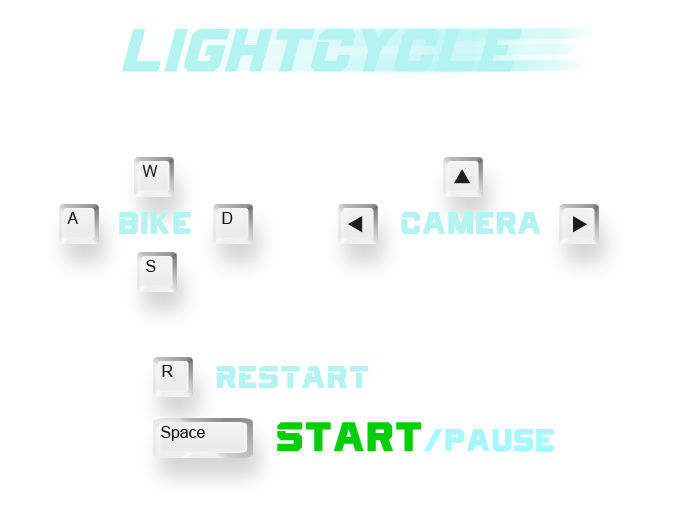
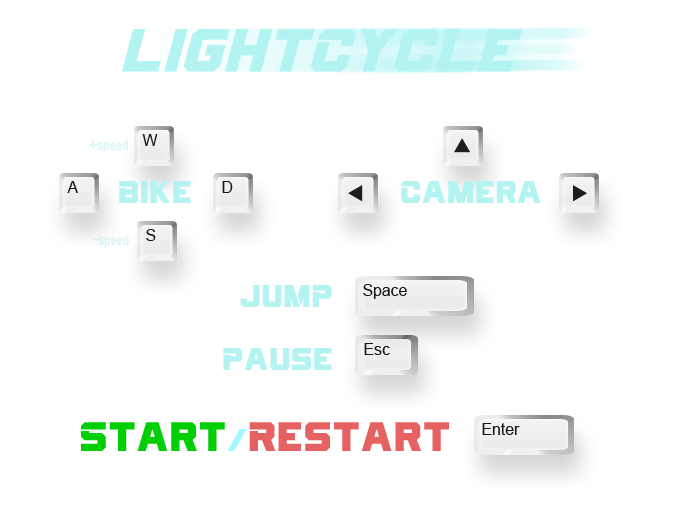
Readjust controls for jump
Enter is now the universal button for start/restart. Space is dedicated
to jumping, and esc for pausing. The starting instructions are modified
to reflect this.

diff --git a/lightcycle.js b/lightcycle.js
@@ -55,8 +55,8 @@ window.onload = function init() {
     gl.blendFunc(gl.SRC_ALPHA, gl.ONE_MINUS_SRC_ALPHA);
 
     // Start game
-    restart();
     initializeBgm();
+    controller.restart();
     requestAnimFrame(render);
 }
 
@@ -65,7 +65,6 @@ function initializeBgm() {
     if (!bgm.error) {
         bgm.volume = 0.1;
         bgm.loop = true;
-        bgm.play();
     }
 }
 
@@ -77,40 +76,6 @@ function playCrashSound() {
         sound.currentTime = 0;
         sound.play();
     }
-}
-
-function restart() {
-    // Remove existing world, if any
-    if (world) {
-        removeEventListener("keydown", world.player.controls);
-        world = undefined;
-    }
-
-    // Create game world / logic controller
-    world = new World();
-    world.addBike(PcBike);
-    world.player = world.bikes[0];
-    for (var i = 0; i < 15; i++)
-        world.addBike(CpuBike);
-    world.time = window.performance.now() / 1000;
-
-    // Remove existing camera, if any
-    if (camera) {
-        removeEventListener("keydown", camera.controls);
-        camera = undefined;
-    }
-
-    // Create camera object
-    var aspect = canvas.width / canvas.height;
-    camera = new Camera(aspect);
-
-    won = false;
-    document.getElementById("victory").style.visibility = "hidden";
-
-    // Start out game paused
-    controller.pause(false);
-    started = false;
-    controller.pause(true);
 }
 
 function Camera(aspect) {
@@ -1246,33 +1211,73 @@ function Controller() {
     addEventListener("keyup", this.keyup.bind(this));
 }
 
+Controller.prototype.start = function() {
+    document.getElementById("start").style.visibility = "hidden";
+    started = true;
+    this.pause(false);
+}
+
+Controller.prototype.restart = function() {
+    // Remove existing world, if any
+    if (world) {
+        removeEventListener("keydown", world.player.controls);
+        world = undefined;
+    }
+
+    // Create game world / logic controller
+    world = new World();
+    world.addBike(PcBike);
+    world.player = world.bikes[0];
+    for (var i = 0; i < 15; i++)
+        world.addBike(CpuBike);
+    world.time = window.performance.now() / 1000;
+
+    // Remove existing camera, if any
+    if (camera) {
+        removeEventListener("keydown", camera.controls);
+        camera = undefined;
+    }
+
+    // Create camera object
+    var aspect = canvas.width / canvas.height;
+    camera = new Camera(aspect);
+
+    won = false;
+    document.getElementById("victory").style.visibility = "hidden";
+
+    // Set up
+    document.getElementById("start").style.visibility = "visible";
+    started = false;
+
+    // Start out game paused
+    controller.pause(false);
+    controller.pause(true);
+}
+
+
 Controller.prototype.pause = function(p) {
     if (paused === p) {
         return;
     }
+    paused = !paused;
 
+    // pause
     if (paused) {
         if (started) {
-            document.getElementById("resume").style.visibility = "hidden";
-        } else {
-            document.getElementById("start").style.visibility = "hidden";
-            started = true;
+            document.getElementById("resume").style.visibility = "visible";
         }
+        if (!this.bgm.error) {
+            this.bgm.pause();
+        }
+
+    // unpause
+    } else {
+        document.getElementById("resume").style.visibility = "hidden";
         if (!this.disable_bgm && !this.bgm.error) {
             this.bgm.play();
         }
-    } else {
-        if (started) {
-            document.getElementById("resume").style.visibility = "visible";
-            if (!this.bgm.error) {
-                this.bgm.pause();
-            }
-        } else {
-            document.getElementById("start").style.visibility = "visible";
-        }
     }
 
-    paused = !paused;
     geometry.arena.texture = gl.createTexture();
     var image;
     if(!paused) {
@@ -1285,10 +1290,17 @@ Controller.prototype.pause = function(p) {
 
 Controller.prototype.keydown = function(e) {
     this.pressing[e.keyCode] = true;
-    if (e.keyCode === 80 || e.keyCode === 27 || e.keyCode == 13) { // p | esc | enter
-        this.pause(!paused);
-    } else if (e.keyCode === 82) { // r
-        restart();
+    if (e.keyCode === 27) { // esc
+        if (started) {
+            this.pause(!paused);
+        }
+    }
+    else if (e.keyCode == 13) { //  enter
+        if (!started) {
+            this.start();
+        } else {
+            this.restart();
+        }
     } else if (e.keyCode === 77) { // m
         if (this.bgm.error) {
             return;

diff --git a/README.md b/README.md
@@ -47,11 +47,9 @@ In free-camera mode, the controls are as follows:
 
 ## Miscellaneous Controls:
 
-* P / Spacebar - pauses/unpauses the game. No movement or camera control is
+* Esc - pauses/unpauses the game. No movement or camera control is
   allowed while the game is paused and the screen darkens to indicate this.
-* R - restarts the game
-
-The game starts off paused, which can be unpaused using P / Spacebar.
+* Enter - Starts/restarts the game
 
 ## Details:
 
